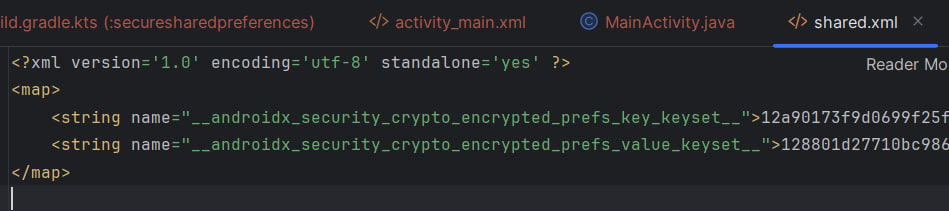
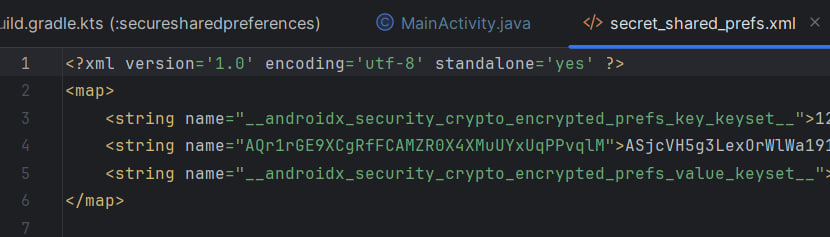
finish

diff --git a/Lesson6/securesharedpreferences/src/main/java/ru/mirea/mikhaylenkoma/securesharedpreferences/MainActivity.java b/Lesson6/securesharedpreferences/src/main/java/ru/mirea/mikhaylenkoma/securesharedpreferences/MainActivity.java
@@ -1,42 +1,50 @@
 package ru.mirea.mikhaylenkoma.securesharedpreferences;
 
-import androidx.appcompat.app.AppCompatActivity;
-import androidx.security.crypto.EncryptedSharedPreferences;
-import androidx.security.crypto.MasterKeys;
-
 import android.content.SharedPreferences;
 import android.os.Bundle;
 import android.security.keystore.KeyGenParameterSpec;
 
+import androidx.appcompat.app.AppCompatActivity;
+import androidx.security.crypto.EncryptedSharedPreferences;
+import androidx.security.crypto.MasterKeys;
+
 import java.io.IOException;
 import java.security.GeneralSecurityException;
 
+import ru.mirea.mikhaylenkoma.securesharedpreferences.databinding.ActivityMainBinding;
+
 public class MainActivity extends AppCompatActivity {
+    private ActivityMainBinding binding;
 
     @Override
     protected void onCreate(Bundle savedInstanceState) {
         super.onCreate(savedInstanceState);
-        setContentView(R.layout.activity_main);
 
-        KeyGenParameterSpec keyGenParameterSpec	=	MasterKeys.AES256_GCM_SPEC;
+        binding = ActivityMainBinding.inflate(getLayoutInflater());
+        setContentView(binding.getRoot());
 
-        try	{
-            String	mainKeyAlias	=	MasterKeys.getOrCreate(keyGenParameterSpec);
+        KeyGenParameterSpec keyGenParameterSpec = MasterKeys.AES256_GCM_SPEC;
 
-            SharedPreferences secureSharedPreferences	=	EncryptedSharedPreferences.create(
-                    "shared",
+        try {
+            String mainKeyAlias = MasterKeys.getOrCreate(keyGenParameterSpec);
+
+            SharedPreferences secureSharedPreferences = EncryptedSharedPreferences.create(
+                    "secret_shared_prefs",
                     mainKeyAlias,
                     getBaseContext(),
                     EncryptedSharedPreferences.PrefKeyEncryptionScheme.AES256_SIV,
                     EncryptedSharedPreferences.PrefValueEncryptionScheme.AES256_GCM
             );
 
-            secureSharedPreferences.edit().putString("secure",	"ЛЮБИМЫЙ ПОЭТ");
+            secureSharedPreferences.edit().putString("secure", "Асадов Эдуард Аркадьевич").apply();
 
-            String	result	=	secureSharedPreferences.getString("secure",	"ЛЮБИМЫЙ АКТЕР");
+            String result = secureSharedPreferences.getString("secure", "unknown");
+            binding.textView.setText(result);
 
-        }	catch	(GeneralSecurityException | IOException e)	{
-            throw	new	RuntimeException(e);
+        } catch (GeneralSecurityException | IOException e) {
+            throw new RuntimeException(e);
         }
     }
 }
+
+

diff --git a/MireaProject/app/src/main/java/ru/mirea/mikhaylenkoma/mireaproject/ui/les8/MapActivity.java b/MireaProject/app/src/main/java/ru/mirea/mikhaylenkoma/mireaproject/ui/les8/MapActivity.java
@@ -30,6 +30,7 @@ import com.yandex.runtime.Error;
 import com.yandex.runtime.image.ImageProvider;
 import com.yandex.runtime.network.NetworkError;
 import com.yandex.runtime.network.RemoteError;
+import com.yandex.mapkit.map.IconStyle;
 
 import java.util.ArrayList;
 import java.util.List;
@@ -46,7 +47,7 @@ public class MapActivity extends AppCompatActivity implements DrivingSession.Dri
     private DrivingRouter drivingRouter;
     private DrivingSession drivingSession;
     private boolean isWork = false;
-    private final Point USER_LOC = new Point(55.596470, 37.987620);
+    private final Point USER_LOC = new Point(55.801121,37.80568);
     private PlacemarkMapObject markerHome, markerPlace;
     private MapObjectTapListener homeTapListener, placeTapListener;
     private int[] colors = {0xFFFF0000, 0xFF00FF00};
@@ -124,10 +125,13 @@ public class MapActivity extends AppCompatActivity implements DrivingSession.Dri
     private void addHomeMarker() {
         markerHome = mapView.getMap().getMapObjects().addPlacemark(USER_LOC,
                 ImageProvider.fromResource(this, R.drawable.geometka));
+        IconStyle iconStyle = new IconStyle();
+        iconStyle.setScale(0.1f);
+        markerHome.setIconStyle(iconStyle);
         homeTapListener = (mapObject, point) -> {
             AlertDialog.Builder builder = new AlertDialog.Builder(MapActivity.this)
                     .setTitle("ДОМ")
-                    .setMessage("Островцы, ул. Подмосковная, д.36")
+                    .setMessage("11-я парковая 36")
                     .setPositiveButton("OK", null);
             builder.show();
             return false;
@@ -144,6 +148,9 @@ public class MapActivity extends AppCompatActivity implements DrivingSession.Dri
         if(latitude != null && longitude != null) {
             markerPlace = mapView.getMap().getMapObjects().addPlacemark(new Point(latitude, longitude),
                     ImageProvider.fromResource(this, R.drawable.geometka));
+            IconStyle iconStyle = new IconStyle();
+            iconStyle.setScale(0.1f);
+            markerPlace.setIconStyle(iconStyle);
             placeTapListener = (mapObject, point) -> {
                 AlertDialog.Builder builder = new AlertDialog.Builder(MapActivity.this)
                         .setTitle(title)

diff --git a/MireaProject/app/src/main/java/ru/mirea/mikhaylenkoma/mireaproject/ui/les7/NetworkResource.java b/MireaProject/app/src/main/java/ru/mirea/mikhaylenkoma/mireaproject/ui/les7/NetworkResource.java
@@ -41,7 +41,7 @@ public class NetworkResource extends Fragment {
         protected String doInBackground(Void... voids) {
             HttpURLConnection urlConnection = null;
             try {
-                URL url = new URL("https://zenquotes.io/api/quotes?topic=love");
+                URL url = new URL("https://zenquotes.io/api/quotes?");
                 urlConnection = (HttpURLConnection) url.openConnection();
                 InputStream in = urlConnection.getInputStream();
 

diff --git a/Lesson6/employeedb/src/main/java/ru/mirea/mikhaylenkoma/employeedb/MainActivity.java b/Lesson6/employeedb/src/main/java/ru/mirea/mikhaylenkoma/employeedb/MainActivity.java
@@ -16,9 +16,9 @@ public class MainActivity extends AppCompatActivity {
         AppDatabase db = App.getInstance().getDatabase();
         EmployeeDao employeeDao = db.employeeDao();
         Employee employee = new Employee();
-        employee.id = 1;
-        employee.name = "DiCaprio";
-        employee.salary = 2000;
+      // employee.id = 1;
+       // employee.name = "DiCaprio";
+       // employee.salary = 2000;
 
         employeeDao.insert(employee);
 

diff --git a/MireaProject/app/src/main/java/ru/mirea/mikhaylenkoma/mireaproject/ui/les8/App.java b/MireaProject/app/src/main/java/ru/mirea/mikhaylenkoma/mireaproject/ui/les8/App.java
@@ -5,7 +5,7 @@ import android.app.Application;
 import com.yandex.mapkit.MapKitFactory;
 
 public class App extends Application {
-    private final String MAPKIT_API_KEY = "4622de22-fd2c-4d45-ab4d-90034abe8151";
+    private final String MAPKIT_API_KEY = "48ea2f69-8680-44ab-afe1-8bd16b86c632";
 
     @Override
     public void onCreate() {
